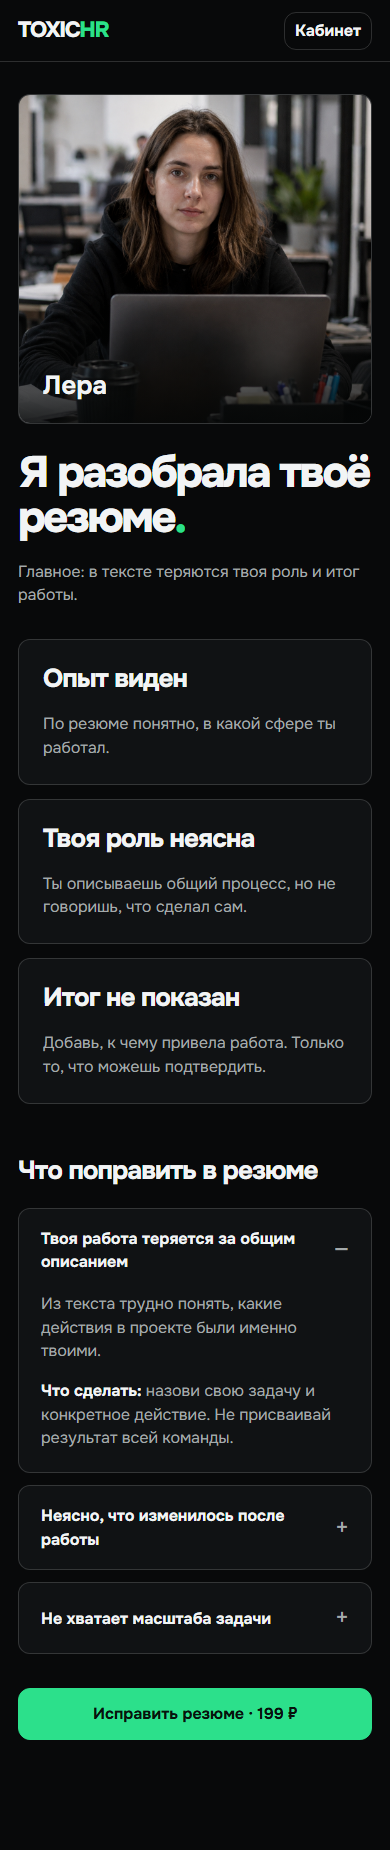
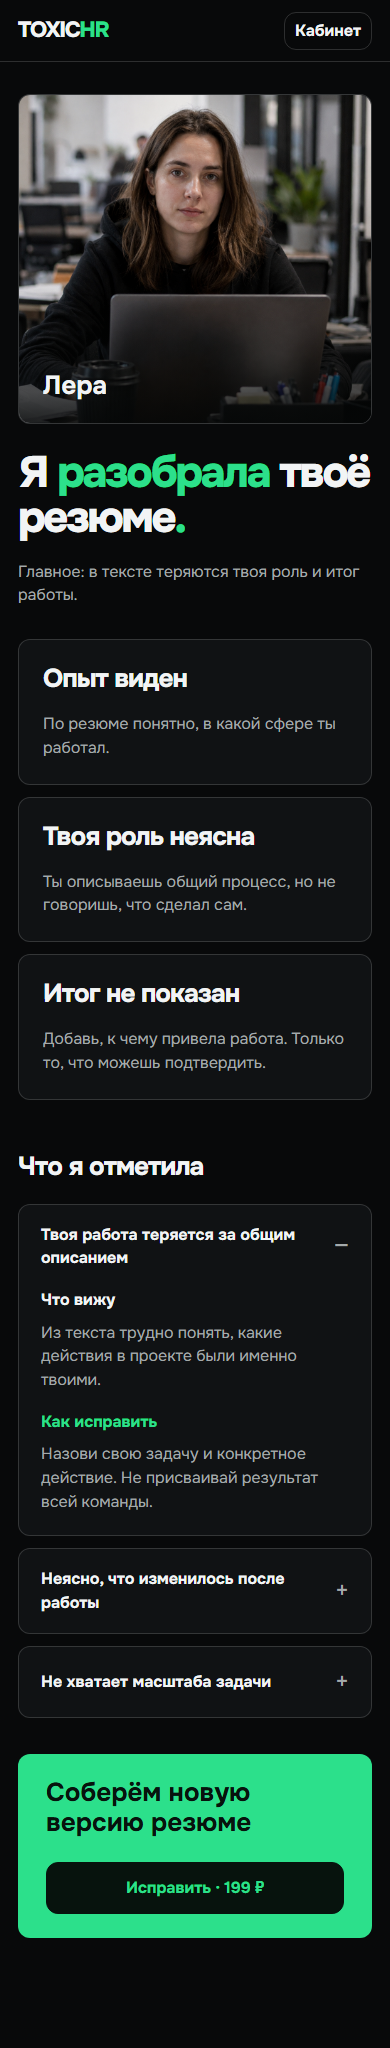
Refine review mockup composition from reference

Changed region(s): [[0.0308, 0.0, 0.9538, 0.9551], [0.7692, 0.5546, 0.8615, 0.5854], [0.8308, 0.3389, 0.8615, 0.4005]]

diff --git a/prototypes/release-mockups/v2/style.css b/prototypes/release-mockups/v2/style.css
@@ -1,26 +1,28 @@
-.report-wrap { width: min(1250px, calc(100% - 72px)); margin: auto; padding: 64px 0 110px; }
-.report-hero { display: grid; grid-template-columns: 320px minmax(0, 1fr); align-items: center; gap: 70px; }
-.hr-portrait { position: relative; height: 350px; overflow: hidden; border: 1px solid var(--border); border-radius: var(--radius); background: var(--surface); }
+.report-wrap { width: min(1080px, calc(100% - 72px)); margin: auto; padding: 54px 0 110px; }
+.report-hero { display: grid; grid-template-columns: minmax(0, 1fr) 390px; align-items: center; gap: 48px; }
+.hr-portrait { position: relative; height: 330px; overflow: hidden; border: 1px solid var(--border); border-radius: var(--radius); background: var(--surface); }
 .hr-portrait img { display: block; width: 100%; height: 100%; object-fit: cover; object-position: center 26%; }
 .hr-portrait::after { content: ''; position: absolute; inset: 58% 0 0; background: linear-gradient(transparent, rgba(5, 7, 7, .88)); }
 .hr-portrait b { position: absolute; z-index: 1; bottom: 22px; left: 24px; font-size: var(--type-heading); line-height: 1.16; }
-.report-intro h1 { max-width: 780px; }
-.report-intro .lead { max-width: 610px; margin-top: 30px; color: var(--muted); }
-.report-findings { display: grid; grid-template-columns: repeat(3, minmax(0, 1fr)); gap: 14px; margin-top: 40px; }
-.finding-card { min-height: 195px; padding: 26px; border: 1px solid var(--border); border-radius: var(--radius); background: var(--surface); }
+.report-intro h1 { max-width: 620px; }
+.report-intro .lead { max-width: 580px; margin-top: 30px; color: var(--muted); }
+.report-findings { display: grid; grid-template-columns: repeat(3, minmax(0, 1fr)); gap: 12px; margin-top: 28px; }
+.finding-card { min-height: 175px; padding: 24px; border: 1px solid var(--border); border-radius: var(--radius); background: var(--surface); }
 .finding-card p { margin-top: 18px; color: var(--muted); }
-.fix-section { margin-top: 62px; }
+.fix-section { margin-top: 66px; }
 .fix-list { display: grid; gap: 12px; margin-top: 22px; }
 .fix-item { border: 1px solid var(--border); border-radius: var(--radius); background: var(--surface); }
 .fix-item summary { display: flex; min-height: 76px; align-items: center; justify-content: space-between; gap: 20px; padding: 20px 26px; list-style: none; cursor: pointer; font-weight: 700; }
 .fix-item summary::-webkit-details-marker { display: none; }
 .fix-item summary::after { content: '+'; flex: 0 0 auto; color: var(--muted); font-size: var(--type-heading); font-weight: 400; line-height: 1; }
 .fix-item[open] summary::after { content: '−'; }
-.fix-body { max-width: 850px; padding: 0 26px 26px; color: var(--muted); }
-.fix-body p + p { margin-top: 16px; }
+.fix-body { display: grid; grid-template-columns: repeat(2, minmax(0, 1fr)); gap: 32px; padding: 0 26px 26px; color: var(--muted); }
+.fix-body p { margin-top: 9px; }
 .fix-body strong { color: var(--fg); font-weight: 700; }
-.report-next { margin-top: 34px; }
-.report-next .button { min-width: 260px; }
+.fix-body > div:last-child strong { color: var(--accent); }
+.report-next { display: flex; align-items: center; justify-content: space-between; gap: 24px; margin-top: 36px; padding: 24px 28px; border-radius: var(--radius); background: var(--accent); color: var(--accent-dark); }
+.report-next strong { font-size: var(--type-heading); line-height: 1.16; }
+.report-next .button { min-width: 230px; }
 .cabinet-layout { display: grid; grid-template-columns: 250px minmax(0, 1fr); width: min(1480px, 100%); min-height: calc(100vh - 72px); margin: auto; }
 .side-nav { display: flex; min-height: 900px; flex-direction: column; padding: 38px 17px; border-right: 1px solid var(--border); background: var(--surface); }
 .side-nav nav { display: flex; flex-direction: column; gap: 5px; }
@@ -60,7 +62,7 @@
 .history-entry > i { flex: 0 0 9px; width: 9px; height: 9px; margin-top: 9px; border-radius: 50%; background: var(--accent); }
 .entry-action { margin-left: auto; color: var(--accent) !important; font-weight: 700; }
 @media (max-width: 1050px) {
-  .report-hero { grid-template-columns: 280px minmax(0, 1fr); gap: 30px; }
+  .report-hero { grid-template-columns: minmax(0, 1fr) 320px; gap: 30px; }
   .cabinet-layout { grid-template-columns: 215px minmax(0, 1fr); }
   .side-nav { padding-right: 10px; padding-left: 10px; }
   .cabinet-main { padding-right: 30px; padding-left: 30px; }
@@ -69,13 +71,16 @@
 @media (max-width: 700px) {
   .report-wrap { width: calc(100% - 36px); padding-top: 32px; }
   .report-hero { grid-template-columns: 1fr; gap: 26px; }
+  .report-intro { order: 2; }
+  .hr-portrait { order: 1; }
   .hr-portrait { height: 330px; }
   .report-intro .lead { margin-top: 20px; }
   .report-findings { grid-template-columns: 1fr; margin-top: 32px; }
   .finding-card { min-height: 0; padding: 24px; }
   .fix-section { margin-top: 52px; }
   .fix-item summary { min-height: 70px; padding: 18px 22px; }
-  .fix-body { padding: 0 22px 22px; }
+  .fix-body { grid-template-columns: 1fr; gap: 18px; padding: 0 22px 22px; }
+  .report-next { align-items: stretch; flex-direction: column; }
   .report-next .button { width: 100%; }
   .cabinet-layout { display: block; }
   .side-nav { min-height: 0; padding: 12px 18px; border-right: 0; border-bottom: 1px solid var(--border); }

diff --git a/prototypes/release-mockups/v2/index.html b/prototypes/release-mockups/v2/index.html
@@ -13,11 +13,11 @@
     <section class="screen report-screen" data-screen="report" aria-label="Разбор резюме">
       <div class="report-wrap">
         <div class="report-hero">
-          <div class="hr-portrait"><img src="../../../public/hr/lera.jpg" alt="Лера"><b>Лера</b></div>
           <div class="report-intro">
-            <h1>Я разобрала твоё резюме<span class="fullstop">.</span></h1>
+            <h1>Я <em>разобрала</em> твоё резюме<span class="fullstop">.</span></h1>
             <p class="lead">Главное: в тексте теряются твоя роль и итог работы.</p>
           </div>
+          <div class="hr-portrait"><img src="../../../public/hr/lera.jpg" alt="Лера"><b>Лера</b></div>
         </div>
         <div class="report-findings" aria-label="Результат разбора">
           <article class="finding-card"><h2>Опыт виден</h2><p>По резюме понятно, в какой сфере ты работал.</p></article>
@@ -25,23 +25,23 @@
           <article class="finding-card"><h2>Итог не показан</h2><p>Добавь, к чему привела работа. Только то, что можешь подтвердить.</p></article>
         </div>
         <section class="fix-section" aria-labelledby="fix-heading">
-          <h2 id="fix-heading">Что поправить в резюме</h2>
+          <h2 id="fix-heading">Что я отметила</h2>
           <div class="fix-list">
             <details class="fix-item" open>
               <summary>Твоя работа теряется за общим описанием</summary>
-              <div class="fix-body"><p>Из текста трудно понять, какие действия в проекте были именно твоими.</p><p><strong>Что сделать:</strong> назови свою задачу и конкретное действие. Не присваивай результат всей команды.</p></div>
+              <div class="fix-body"><div><strong>Что вижу</strong><p>Из текста трудно понять, какие действия в проекте были именно твоими.</p></div><div><strong>Как исправить</strong><p>Назови свою задачу и конкретное действие. Не присваивай результат всей команды.</p></div></div>
             </details>
             <details class="fix-item">
               <summary>Неясно, что изменилось после работы</summary>
-              <div class="fix-body"><p>Описан процесс, но итог для читателя остаётся за кадром.</p><p><strong>Что сделать:</strong> добавь подтверждаемый результат. Это может быть конкретное изменение, даже если нет цифр.</p></div>
+              <div class="fix-body"><div><strong>Что вижу</strong><p>Описан процесс, но итог для читателя остаётся за кадром.</p></div><div><strong>Как исправить</strong><p>Добавь подтверждаемый результат. Это может быть конкретное изменение, даже если нет цифр.</p></div></div>
             </details>
             <details class="fix-item">
               <summary>Не хватает масштаба задачи</summary>
-              <div class="fix-body"><p>Без контекста трудно оценить объём твоей ответственности.</p><p><strong>Что сделать:</strong> укажи реальные сроки, размер команды или объём работы, если эти сведения у тебя есть.</p></div>
+              <div class="fix-body"><div><strong>Что вижу</strong><p>Без контекста трудно оценить объём твоей ответственности.</p></div><div><strong>Как исправить</strong><p>Укажи реальные сроки, размер команды или объём работы, если эти сведения у тебя есть.</p></div></div>
             </details>
           </div>
         </section>
-        <div class="report-next"><span class="button green">Исправить резюме · 199 ₽</span></div>
+        <div class="report-next"><strong>Соберём новую версию резюме</strong><span class="button dark">Исправить · 199 ₽</span></div>
       </div>
     </section>
 

diff --git a/WORK-IN-PROGRESS.md b/WORK-IN-PROGRESS.md
@@ -9,6 +9,7 @@
 - 21.10: у обоих статических макетов унифицированы шрифт, четыре типографические роли (включая мелкую дату), цвет и кнопки; удалены технические подписи и декоративные счётчики. Обновлены скриншоты для компьютера и телефона. Приложение не менялось.
 - 21.10: по отзыву пользователя отдельно пересобран макет результата: голос Леры, три одинаковых наблюдения, одно действие; убраны повторяющиеся статусы, подпись персоны, декоративные линии и строка с полным комментарием. Кабинет и рабочее приложение не менялись.
 - 21.10: в макете результата под кратким итогом добавлены три раскрывающихся пояснения к сохранённому замечанию о вкладе, результате и масштабе; цена и действие размещены после них. Десктопный и мобильный скриншоты обновлены. Рабочий сайт не менялся.
+- 21.10: по новому референсу в том же макете изменена композиция разбора: крупный вывод и портрет рядом, замечания раскрывают «Что вижу / Как исправить», платное действие завершает страницу. Общая дизайн-система не менялась; рабочий сайт и кабинет не тронуты.
 - Принято пользователем: направление крупной HR-карусели, акцентные действия с резюме и лаконичная форма входа. Финальная приёмка интеграции не зафиксирована.
 - Осталось: согласовать новый порядок запуска и итоговый интерфейс; затем по отдельным командам подготовить релиз и опубликовать. Действующий `toxichr.ru` всё ещё на прежней версии.
 - Публикация: по `docs/LAUNCH.md` вручную на REG.Cloud сервере из `/opt/toxichr` через `docker compose ... build app` и `up -d`. В репозитории GitHub Actions на push запускает только lint/typecheck; внешний автодеплой не подтверждён, поэтому push без отдельного выяснения не делать.
